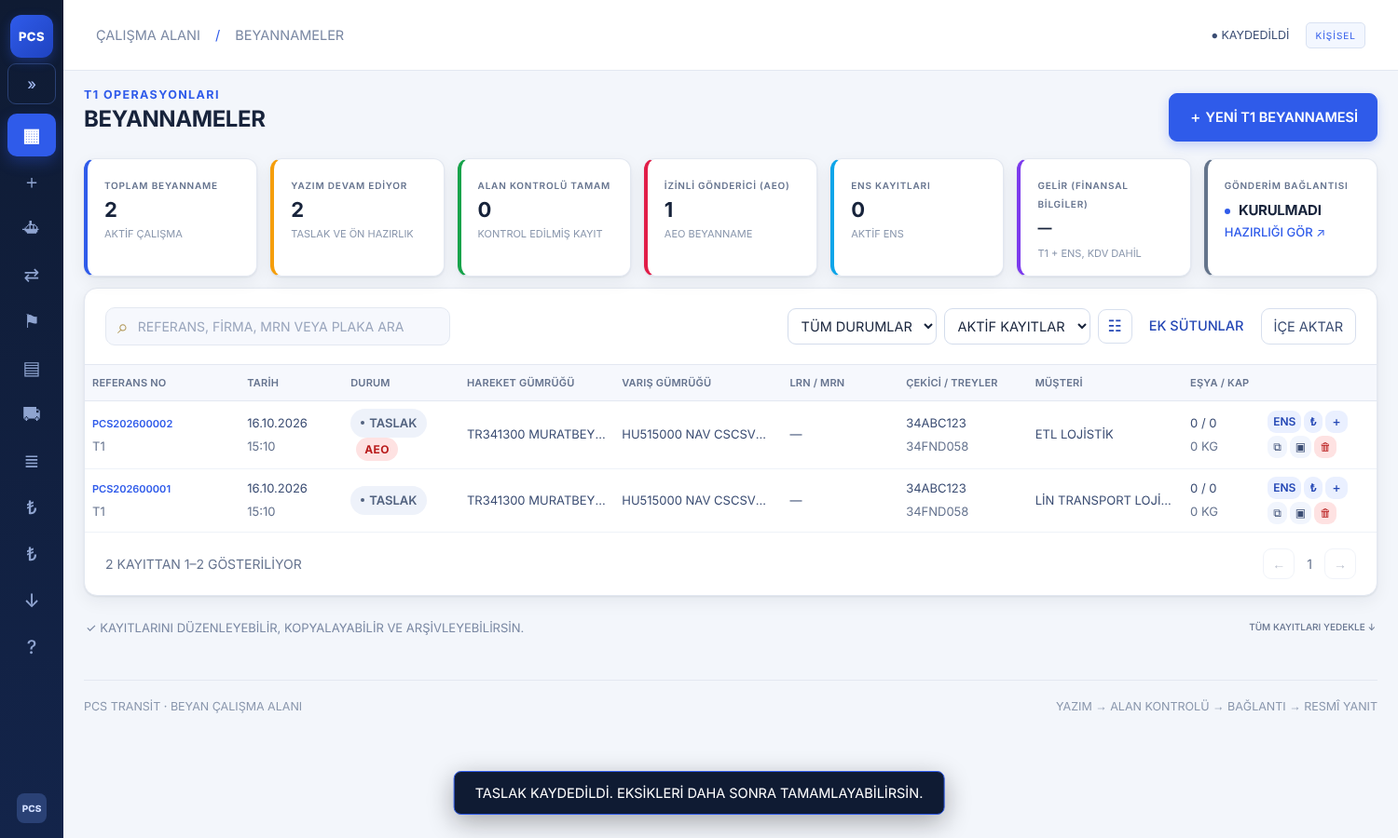
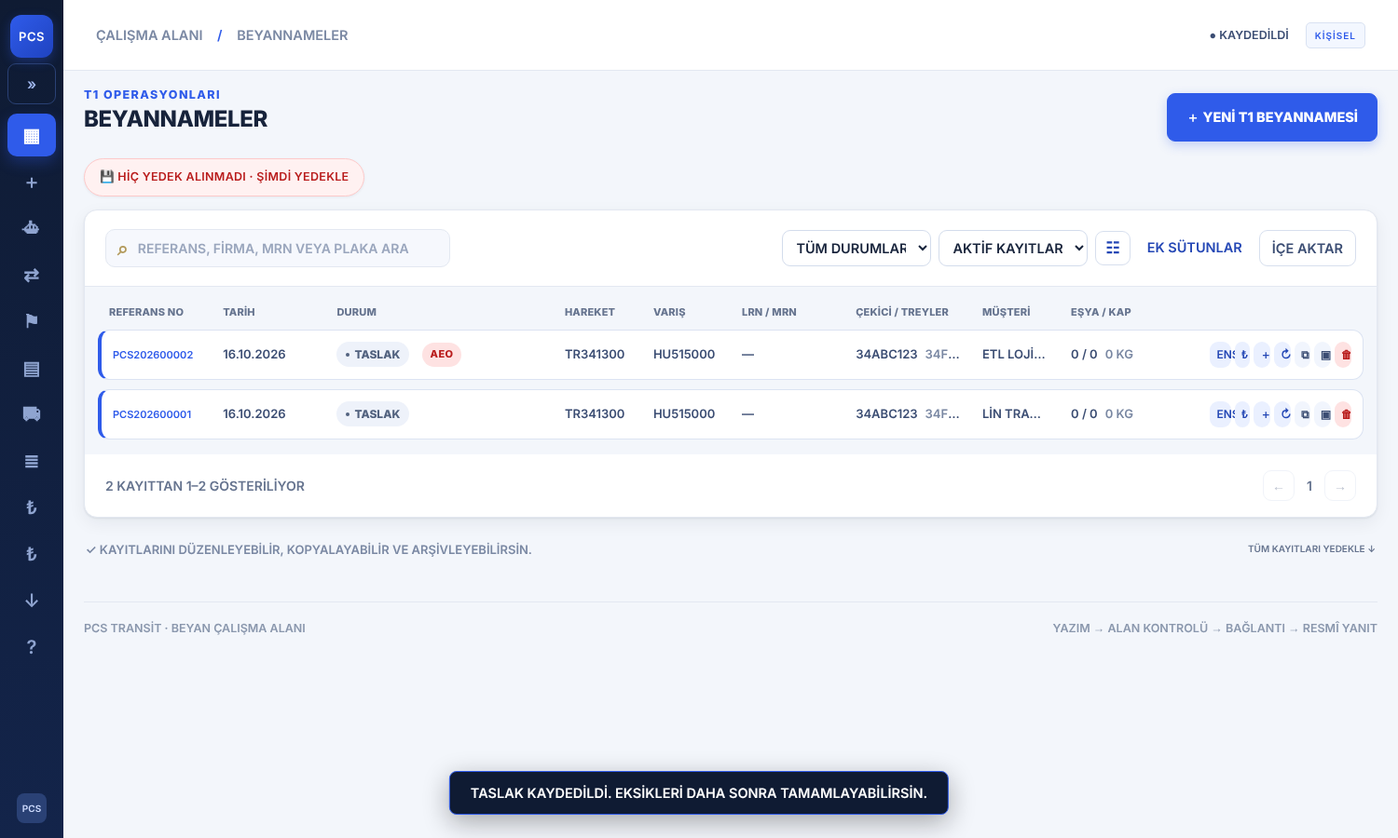
Liste: tek satır blok kartlar, bilgi şeridi kaldırıldı, tüm yazılar kalın; Bugün şeridi (transit süresi, hat bekleyen, yedek hatırlatma); ↻ Tekrarla; hat durum rozetleri/özeti/sonraki durum
Claude-Session: https://claude.ai/code/session_0131aE7XCffjHkh7CXKLT4XM

diff --git a/workspace.js b/workspace.js
@@ -100,14 +100,21 @@ function download(content,name,type){const url=URL.createObjectURL(new Blob([con
 $('#exportExcel').onclick=async()=>{const issues=allProblems(work.values,work.records).filter(x=>x.step===3);if(!work.records.length||issues.length){toast(!work.records.length?'Önce eşya satırı ekle.':'Excel için eşya satırlarındaki eksikleri tamamla.');setStep(3);if(issues[0]?.goodId)openGood(issues[0].goodId,issues[0].key);return}if(!saveWork(work.status,'PCS Excel çıktısı hazırlandı.'))return;try{const response=await fetch('template.xlsx');if(!response.ok)throw Error('Şablon yüklenemedi');const bytes=makeExcel(new Uint8Array(await response.arrayBuffer()),work.records);download(bytes,'PCS_'+work.ref+'.xlsx','application/vnd.openxmlformats-officedocument.spreadsheetml.sheet');toast(work.records.length+' eşya satırı için PCS Excel indirildi.')}catch(e){toast(e.message)}};
 $('#exportPreparation').onclick=()=>{flushDraft();download(JSON.stringify({format:'t1-preparation',version:1,createdAt:new Date().toISOString(),reference:work.ref||null,declaration:work.values,goods:work.records,checks:allProblems(work.values,work.records),submission:{connected:false,sent:false},note:'Hazırlık verisidir; sağlayıcının resmî gönderim şeması değildir.'},null,2),'T1_hazirlik_'+(work.ref||'taslak')+'.json','application/json');toast('Beyanname hazırlık dosyası indirildi.')};
 function showList(){if(work)flushDraft();work=null;showView('list');renderList();location.hash='list'}
-function renderList(){const active=db.declarations.filter(d=>!d.archived);$('#totalCount').textContent=active.length;$('#draftCount').textContent=active.filter(d=>d.status!=='Kontrol edildi').length;$('#checkedCount').textContent=active.filter(d=>d.status==='Kontrol edildi').length;{const e=ens.list().filter(r=>!r.archived);$('#aeoCount').textContent=active.filter(d=>d.aeo).length;$('#ensCount').textContent=e.length;const lines=[...active.flatMap(d=>(readGoods(d.id).fin?.lines||[])),...e.flatMap(r=>(r.fin?.lines||[]))].filter(l=>l.side==='gelir'),sm=Fin.sums(getFinance(),lines);$('#incomeSum').textContent=Fin.money(sm.gelir)}$('#resumeBanner').hidden=!db.draft;$('#resumeText').textContent=db.draft?(db.draft.ref||'Yeni T1')+' · '+steps[Math.min(5,db.draft.step||0)].name:'';let list=db.declarations.filter(d=>!!d.archived===($('#archiveFilter').value==='archived'));const q=$('#listSearch').value.toLocaleUpperCase('tr');list=list.filter(d=>[d.ref,d.mrn,d.lrn,d.vehicle,d.trailer,d.carrier,d.customer,...readGoods(d.id).records.map(g=>g.mrn)].join(' ').toLocaleUpperCase('tr').includes(q));if($('#statusFilter').value)list=list.filter(d=>d.status===$('#statusFilter').value);const localDay=d=>new Date(d.createdAt).toLocaleDateString('sv-SE',{timeZone:'Europe/Istanbul'});if($('#dateFrom').value)list=list.filter(d=>localDay(d)>=$('#dateFrom').value);if($('#dateTo').value)list=list.filter(d=>localDay(d)<=$('#dateTo').value);list.sort((a,b)=>String(b.createdAt||b.updatedAt).localeCompare(String(a.createdAt||a.updatedAt)));page=Math.max(1,Math.min(page,Math.ceil(list.length/20)||1));const shown=list.slice((page-1)*20,page*20);$('#declarationRows').innerHTML=shown.map(d=>{const t=totals(readGoods(d.id).records);const cell=(v,sub)=>'<td title="'+esc([v,sub].filter(Boolean).join(' · '))+'"><span class="cellMain">'+esc(v||'—')+'</span>'+(sub?'<small>'+esc(sub)+'</small>':'')+'</td>';
+const dueDays=d=>{if(d.archived||!d.transitEnd)return null;const t=Date.parse(String(d.transitEnd).slice(0,10)+'T23:59:59');return Number.isFinite(t)?Math.ceil((t-Date.now())/864e5):null};
+const dueBadge=d=>{const n=dueDays(d);if(n===null||n>2)return '';return ' <span class="dueBadge'+(n<0?' late':'')+'" title="Transit bitiş: '+esc(d.transitEnd)+'">'+(n<0?'SÜRE GEÇTİ':n===0?'BUGÜN BİTİYOR':n+' GÜN KALDI')+'</span>'};
+let dueOnly=false;
+function renderToday(){const el=$('#todayStrip');if(!el)return;const chips=[];const due=db.declarations.filter(d=>{const n=dueDays(d);return n!==null&&n<=2});if(due.length)chips.push('<button type="button" class="tChip warn'+(dueOnly?' on':'')+'" data-today="due">⏰ <b>'+due.length+'</b> BEYANNAMENİN TRANSİT SÜRESİ DOLUYOR / DOLDU'+(dueOnly?' · FİLTRE AÇIK':'')+'</button>');
+ let hw=0;try{hw=hat.exportData().filter(r=>['Hazırlandı','Gönderildi','İşlemde'].includes(r.status)).length}catch{}if(hw)chips.push('<button type="button" class="tChip" data-today="hat">⚑ <b>'+hw+'</b> HAT BİLDİRİMİ BEKLİYOR</button>');
+ if(db.declarations.length){let days=null;try{const t=Date.parse(localStorage.getItem('t1-last-backup')||'');if(Number.isFinite(t))days=Math.floor((Date.now()-t)/864e5)}catch{}if(days===null||days>=7)chips.push('<button type="button" class="tChip bad" data-today="backup">💾 '+(days===null?'HİÇ YEDEK ALINMADI':'SON YEDEK '+days+' GÜN ÖNCE')+' · ŞİMDİ YEDEKLE</button>')}
+ el.hidden=!chips.length;el.innerHTML=chips.join('')}
+function renderList(){renderToday();const active=db.declarations.filter(d=>!d.archived);$('#totalCount').textContent=active.length;$('#draftCount').textContent=active.filter(d=>d.status!=='Kontrol edildi').length;$('#checkedCount').textContent=active.filter(d=>d.status==='Kontrol edildi').length;{const e=ens.list().filter(r=>!r.archived);$('#aeoCount').textContent=active.filter(d=>d.aeo).length;$('#ensCount').textContent=e.length;const lines=[...active.flatMap(d=>(readGoods(d.id).fin?.lines||[])),...e.flatMap(r=>(r.fin?.lines||[]))].filter(l=>l.side==='gelir'),sm=Fin.sums(getFinance(),lines);$('#incomeSum').textContent=Fin.money(sm.gelir)}$('#resumeBanner').hidden=!db.draft;$('#resumeText').textContent=db.draft?(db.draft.ref||'Yeni T1')+' · '+steps[Math.min(5,db.draft.step||0)].name:'';let list=db.declarations.filter(d=>!!d.archived===($('#archiveFilter').value==='archived'));const q=$('#listSearch').value.toLocaleUpperCase('tr');list=list.filter(d=>[d.ref,d.mrn,d.lrn,d.vehicle,d.trailer,d.carrier,d.customer,...readGoods(d.id).records.map(g=>g.mrn)].join(' ').toLocaleUpperCase('tr').includes(q));if($('#statusFilter').value)list=list.filter(d=>d.status===$('#statusFilter').value);if(dueOnly)list=list.filter(d=>{const n=dueDays(d);return n!==null&&n<=2});const localDay=d=>new Date(d.createdAt).toLocaleDateString('sv-SE',{timeZone:'Europe/Istanbul'});if($('#dateFrom').value)list=list.filter(d=>localDay(d)>=$('#dateFrom').value);if($('#dateTo').value)list=list.filter(d=>localDay(d)<=$('#dateTo').value);list.sort((a,b)=>String(b.createdAt||b.updatedAt).localeCompare(String(a.createdAt||a.updatedAt)));page=Math.max(1,Math.min(page,Math.ceil(list.length/20)||1));const shown=list.slice((page-1)*20,page*20);$('#declarationRows').innerHTML=shown.map(d=>{const t=totals(readGoods(d.id).records);const oc=(v,e)=>'<td title="'+esc(v||e)+'"><span class="cellMain">'+esc(v?String(v).split(/\s+/)[0]:e)+'</span></td>';const cell=(v,sub)=>'<td title="'+esc([v,sub].filter(Boolean).join(' · '))+'"><span class="cellMain">'+esc(v||'—')+'</span>'+(sub?'<small>'+esc(sub)+'</small>':'')+'</td>';
  const ab=(act,label,title)=>'<button class="addmrn" data-action="'+act+'" data-id="'+esc(d.id)+'" title="'+title+'" aria-label="'+title+'">'+label+'</button>';
- return '<tr><td><button class="ref" data-open="'+esc(d.id)+'">'+esc(d.ref)+'</button><small>'+esc(d.docType||'T1')+'</small></td><td>'+(()=>{const t=time(d.createdAt||d.updatedAt).split(' ');return '<span class="cellMain">'+esc(t[0].replace(',',''))+'</span><small>'+esc(t[1]||'')+'</small>'})()+'</td><td class="stCell">'+statusLabel(d.status)+(d.aeo?' <span class="aeoBadge" title="İzinli gönderici (AEO)">AEO</span>':'')+'</td>'+cell(d.departureOffice||'Hareket eksik')+cell(d.arrivalOffice||'Varış eksik')+cell(d.lrn||d.mrn||'',d.lrn&&d.mrn?d.mrn:'')+cell(d.vehicle||'',d.trailer||'')+cell(d.customer||'')+'<td class="extra" title="'+esc(d.carrier||'')+'">'+esc(d.carrier||'—')+'</td><td class="extra">'+esc(d.guaranteeAmount?fmt(num(d.guaranteeAmount))+' '+d.guaranteeCurrency:'—')+'</td><td class="extra">'+esc(d.transitEnd||'—')+'</td><td>'+t.count+' / '+fmt(t.packages)+'<small>'+fmt(t.gross)+' kg</small></td><td><div class="rowactions">'+ab('ens','ENS','Bu T1\'den ENS hazırla (ENS fiyatı da yazılır)')+ab('invoice','₺','Bu beyanname için fatura hazırla')+ab('addmrn','＋','Bu beyannameye yeni MRN ekle')+'<button data-action="copy" data-id="'+esc(d.id)+'" title="Kopyala" aria-label="Beyannameyi kopyala">⧉</button><button data-action="archive" data-id="'+esc(d.id)+'" title="'+(d.archived?'Arşivden çıkar':'Arşivle')+'" aria-label="'+(d.archived?'Arşivden çıkar':'Arşivle')+'">'+(d.archived?'↶':'▣')+'</button><button class="danger" data-action="delete" data-id="'+esc(d.id)+'" title="Sil" aria-label="Beyannameyi sil">🗑</button></div></td></tr>'}).join('');$('#listEmpty').hidden=!!shown.length;$('#listEmpty h3').textContent=db.declarations.length?'Filtrene uygun kayıt bulunamadı.':'İlk T1 beyannamenle başla.';$('#pageSummary').textContent=list.length+' kayıttan '+(list.length?(page-1)*20+1:0)+'–'+Math.min(page*20,list.length)+' gösteriliyor';$('#pageNumber').textContent=page;$('#pagePrev').disabled=page<=1;$('#pageNext').disabled=page*20>=list.length}
-$('#declarationRows').onclick=e=>{const b=e.target.closest('[data-open]');if(b){startEditor(b.dataset.open,6);return}const action=e.target.closest('[data-action]');if(!action)return;if(action.dataset.action==='ens'){ens.createFromT1(db.declarations.find(x=>x.id===action.dataset.id));return}if(action.dataset.action==='invoice'){const dd=db.declarations.find(x=>x.id===action.dataset.id);accounting.openInvoiceForDeclaration({...dd,finLines:[...(readGoods(dd.id).fin?.lines||[]),...ens.list().filter(r=>!r.archived&&r.ncts===dd.ref).flatMap(r=>(r.fin?.lines||[]).map(l=>({...l,name:l.name+' (ENS '+r.ref+')'})))].filter(l=>l.side==='gelir')});return}if(action.dataset.action==='addmrn'){startEditor(action.dataset.id,3);openGood();return}const d=db.declarations.find(x=>x.id===action.dataset.id);if(action.dataset.action==='delete'){confirmAction('Beyannameyi sil',d.ref+' kalıcı olarak silinir (eşya satırları ve finans bilgisi dahil). Fatura ve ENS kayıtları silinmez. Emin misin?',()=>{db.declarations=db.declarations.filter(x=>x.id!==d.id);try{localStorage.removeItem(goodsKey(d.id))}catch{}if(db.draft&&db.draft.id===d.id)db.draft=null;writeDB();renderList();toast(d.ref+' silindi.')});return}if(action.dataset.action==='archive'){d.archived=!d.archived;d.updatedAt=new Date().toISOString();writeDB();renderList();toast(d.archived?'Arşivlendi. Arşiv filtresinden geri alabilirsin.':'Kayıt arşivden çıkarıldı.')}else confirmAction('Beyannameyi kopyala','Yeni bir taslak oluşturulur. Transit LRN/MRN temizlenir, eşya satırları yeniden kontrol bekler.',()=>{const id=crypto.randomUUID(),now=new Date().toISOString(),clone={...d,id,ref:nextRef(),lrn:'',mrn:'',status:'Taslak',archived:false,createdAt:now,updatedAt:now,activity:[{at:now,message:'Önceki beyannameden taslak kopyalandı.'}]};try{localStorage.setItem(goodsKey(id),JSON.stringify({name:clone.ref,records:readGoods(d.id).records.map(g=>({...g,id:crypto.randomUUID(),reviewed:false}))}));db.declarations.push(clone);writeDB();renderList();toast('Yeni taslak kopyalandı.')}catch{toast('Kopya kaydedilemedi; yedek indir.')}})};
+ return '<tr><td><button class="ref" data-open="'+esc(d.id)+'">'+esc(d.ref)+'</button><small>'+esc(d.docType||'T1')+'</small></td><td>'+(()=>{const t=time(d.createdAt||d.updatedAt).split(' ');return '<span class="cellMain">'+esc(t[0].replace(',',''))+'</span><small>'+esc(t[1]||'')+'</small>'})()+'</td><td class="stCell">'+statusLabel(d.status)+(d.aeo?' <span class="aeoBadge" title="İzinli gönderici (AEO)">AEO</span>':'')+dueBadge(d)+'</td>'+oc(d.departureOffice,'Hareket eksik')+oc(d.arrivalOffice,'Varış eksik')+cell(d.lrn||d.mrn||'',d.lrn&&d.mrn?d.mrn:'')+cell(d.vehicle||'',d.trailer||'')+cell(d.customer||'')+'<td class="extra" title="'+esc(d.carrier||'')+'">'+esc(d.carrier||'—')+'</td><td class="extra">'+esc(d.guaranteeAmount?fmt(num(d.guaranteeAmount))+' '+d.guaranteeCurrency:'—')+'</td><td class="extra">'+esc(d.transitEnd||'—')+'</td><td>'+t.count+' / '+fmt(t.packages)+'<small>'+fmt(t.gross)+' kg</small></td><td><div class="rowactions">'+ab('ens','ENS','Bu T1\'den ENS hazırla (ENS fiyatı da yazılır)')+ab('invoice','₺','Bu beyanname için fatura hazırla')+ab('addmrn','＋','Bu beyannameye yeni MRN ekle')+ab('repeat','↻','Aynı müşteri, plaka ve güzergâhla yeni iş aç (eşyasız)')+'<button data-action="copy" data-id="'+esc(d.id)+'" title="Kopyala" aria-label="Beyannameyi kopyala">⧉</button><button data-action="archive" data-id="'+esc(d.id)+'" title="'+(d.archived?'Arşivden çıkar':'Arşivle')+'" aria-label="'+(d.archived?'Arşivden çıkar':'Arşivle')+'">'+(d.archived?'↶':'▣')+'</button><button class="danger" data-action="delete" data-id="'+esc(d.id)+'" title="Sil" aria-label="Beyannameyi sil">🗑</button></div></td></tr>'}).join('');$('#listEmpty').hidden=!!shown.length;$('#listEmpty h3').textContent=db.declarations.length?'Filtrene uygun kayıt bulunamadı.':'İlk T1 beyannamenle başla.';$('#pageSummary').textContent=list.length+' kayıttan '+(list.length?(page-1)*20+1:0)+'–'+Math.min(page*20,list.length)+' gösteriliyor';$('#pageNumber').textContent=page;$('#pagePrev').disabled=page<=1;$('#pageNext').disabled=page*20>=list.length}
+$('#declarationRows').onclick=e=>{const b=e.target.closest('[data-open]');if(b){startEditor(b.dataset.open,6);return}const action=e.target.closest('[data-action]');if(!action)return;if(action.dataset.action==='ens'){ens.createFromT1(db.declarations.find(x=>x.id===action.dataset.id));return}if(action.dataset.action==='invoice'){const dd=db.declarations.find(x=>x.id===action.dataset.id);accounting.openInvoiceForDeclaration({...dd,finLines:[...(readGoods(dd.id).fin?.lines||[]),...ens.list().filter(r=>!r.archived&&r.ncts===dd.ref).flatMap(r=>(r.fin?.lines||[]).map(l=>({...l,name:l.name+' (ENS '+r.ref+')'})))].filter(l=>l.side==='gelir')});return}if(action.dataset.action==='addmrn'){startEditor(action.dataset.id,3);openGood();return}const d=db.declarations.find(x=>x.id===action.dataset.id);if(action.dataset.action==='repeat'){const src=db.declarations.find(x=>x.id===action.dataset.id);if(!src)return;const id=crypto.randomUUID(),now=new Date().toISOString(),clone={...src,id,ref:nextRef(),lrn:'',mrn:'',exportMrns:'',status:'Taslak',archived:false,createdAt:now,updatedAt:now,activity:[{at:now,message:src.ref+' kaydından tekrarlandı (eşyasız).'}]};try{localStorage.setItem(goodsKey(id),JSON.stringify({name:clone.ref,records:[],draft:{},fin:null}));db.declarations.push(clone);writeDB();startEditor(id,3);toast(clone.ref+' açıldı: müşteri, plaka ve güzergâh '+src.ref+' ile aynı. Eşyayı ekle.')}catch{toast('Kayıt açılamadı; yedek indir.')}return}if(action.dataset.action==='delete'){confirmAction('Beyannameyi sil',d.ref+' kalıcı olarak silinir (eşya satırları ve finans bilgisi dahil). Fatura ve ENS kayıtları silinmez. Emin misin?',()=>{db.declarations=db.declarations.filter(x=>x.id!==d.id);try{localStorage.removeItem(goodsKey(d.id))}catch{}if(db.draft&&db.draft.id===d.id)db.draft=null;writeDB();renderList();toast(d.ref+' silindi.')});return}if(action.dataset.action==='archive'){d.archived=!d.archived;d.updatedAt=new Date().toISOString();writeDB();renderList();toast(d.archived?'Arşivlendi. Arşiv filtresinden geri alabilirsin.':'Kayıt arşivden çıkarıldı.')}else confirmAction('Beyannameyi kopyala','Yeni bir taslak oluşturulur. Transit LRN/MRN temizlenir, eşya satırları yeniden kontrol bekler.',()=>{const id=crypto.randomUUID(),now=new Date().toISOString(),clone={...d,id,ref:nextRef(),lrn:'',mrn:'',status:'Taslak',archived:false,createdAt:now,updatedAt:now,activity:[{at:now,message:'Önceki beyannameden taslak kopyalandı.'}]};try{localStorage.setItem(goodsKey(id),JSON.stringify({name:clone.ref,records:readGoods(d.id).records.map(g=>({...g,id:crypto.randomUUID(),reviewed:false}))}));db.declarations.push(clone);writeDB();renderList();toast('Yeni taslak kopyalandı.')}catch{toast('Kopya kaydedilemedi; yedek indir.')}})};
 $('#resumeDraft').onclick=()=>startEditor(db.draft.id,db.draft.step||0,true);for(const id of ['navNew','newDeclaration','emptyNew','connectionNew'])$('#'+id).onclick=newEditor;$('#navList').onclick=showList;$('#backToList').onclick=showList;
 function showConnection(){if(work)flushDraft();work=null;showView('connection');location.hash='connection'}for(const id of ['navConnection','connectionInfo','reviewConnection'])$('#'+id).onclick=showConnection;
 for(const id of ['listSearch','statusFilter','archiveFilter','dateFrom','dateTo'])$('#'+id).addEventListener(id==='listSearch'?'input':'change',()=>{page=1;renderList()});$('#detailColumns').onclick=()=>{$('#declarationsTable').classList.toggle('showExtra');$('#detailColumns').textContent=$('#declarationsTable').classList.contains('showExtra')?'Sade görünüm':'Ek sütunlar'};$('#filterButton').onclick=()=>$('#dateFilters').hidden=!$('#dateFilters').hidden;$('#clearFilters').onclick=()=>{for(const id of ['dateFrom','dateTo','listSearch','statusFilter'])$('#'+id).value='';page=1;renderList()};$('#pagePrev').onclick=()=>{page--;renderList()};$('#pageNext').onclick=()=>{page++;renderList()};
-async function backup(){try{if(work)flushDraft();const goods=Object.fromEntries(db.declarations.map(d=>[d.id,readGoods(d.id)]));download(JSON.stringify({format:'t1-ncts',version:4,db,goods,companies:await references.getCompanies(),plateCountries:operations.getPlateCountries(),accounting:accounting.exportData(),ens:ens.exportData(),plates:plates.exportData(),hat:hat.exportData(),finance:getFinance()},null,2),'T1_Tum_Kayitlar_'+new Date().toISOString().slice(0,10)+'.json','application/json');toast('Beyanname, firma rehberi ve yarım kalan çalışman yedeklendi.')}catch(err){toast('Yedek alınamadı: '+err.message)}}
+async function backup(){try{try{localStorage.setItem('t1-last-backup',new Date().toISOString())}catch{}if(work)flushDraft();const goods=Object.fromEntries(db.declarations.map(d=>[d.id,readGoods(d.id)]));download(JSON.stringify({format:'t1-ncts',version:4,db,goods,companies:await references.getCompanies(),plateCountries:operations.getPlateCountries(),accounting:accounting.exportData(),ens:ens.exportData(),plates:plates.exportData(),hat:hat.exportData(),finance:getFinance()},null,2),'T1_Tum_Kayitlar_'+new Date().toISOString().slice(0,10)+'.json','application/json');toast('Beyanname, firma rehberi ve yarım kalan çalışman yedeklendi.')}catch(err){toast('Yedek alınamadı: '+err.message)}}
 for(const id of ['navBackup','listBackup'])$('#'+id).onclick=()=>$('#backupDialog').showModal();$('#downloadBackup').onclick=backup;$('#navHelp').onclick=()=>$('#helpDialog').showModal();document.querySelectorAll('[data-close]').forEach(b=>b.onclick=()=>b.closest('dialog').id==='goodDialog'?closeGood():b.closest('dialog').close());
 async function parseFile(file){if(file.size>30*1024*1024)throw Error('Dosya 30 MB altında olmalı.');if(file.name.toLowerCase().endsWith('.xlsx'))return {records:readExcel(new Uint8Array(await file.arrayBuffer()))};return JSON.parse(await file.text())}
 $('#goodsImport').onchange=async e=>{const f=e.target.files[0];if(!f)return;try{const v=await parseFile(f),records=v.records||v.goods;if(!Array.isArray(records))throw Error('Dosyada eşya satırı bulunamadı.');let added=0;for(const value of records){const g=normalizeGood(value);if(!g.mrn||work.records.some(x=>x.mrn===g.mrn))continue;g.id=crypto.randomUUID();g.reviewed=false;work.records.push(g);added++}work.status='Taslak';flushDraft();renderGoods();renderRail();toast(added+' tekil eşya satırı eklendi. Belge karşılaştırması yap.')}catch(err){toast('İçe alınamadı: '+err.message)}finally{e.target.value=''}};
@@ -154,3 +161,5 @@ $('#printT1').onclick=()=>{work.values=readForm();printHtml((work.ref||'T1')+' T
 {const side=document.querySelector('.sidebar'),setTitles=()=>side.querySelectorAll('.nav').forEach(n=>{if(!n.title)n.title=n.textContent.trim()}),wide=()=>{try{return localStorage.getItem('t1-nav-wide')==='1'}catch{return false}};
 setTitles();new MutationObserver(setTitles).observe(side,{childList:true,subtree:true});document.body.classList.toggle('navWide',wide());
 const t=document.createElement('button');t.type='button';t.className='navToggle';t.title='Menüyü genişlet / daralt';t.textContent=document.body.classList.contains('navWide')?'«':'»';t.onclick=()=>{const w=document.body.classList.toggle('navWide');t.textContent=w?'«':'»';try{localStorage.setItem('t1-nav-wide',w?'1':'0')}catch{}};side.querySelector('.brand').after(t)}
+
+$('#todayStrip').onclick=e=>{const b=e.target.closest('[data-today]');if(!b)return;const k=b.dataset.today;if(k==='due'){dueOnly=!dueOnly;page=1;renderList()}else if(k==='hat')$('#navHat').click();else if(k==='backup')$('#backupDialog').showModal()};

diff --git a/index.html b/index.html
@@ -1,7 +1,7 @@
-<!doctype html><html lang="tr"><head><meta charset="utf-8"><meta name="viewport" content="width=device-width,initial-scale=1"><title>PCS TRANSİT · Beyan çalışma alanı</title><meta name="description" content="T1 yazımı için sade, adım adım beyan çalışma alanı."><link rel="stylesheet" href="workspace.css"><link rel="stylesheet" href="polish.css?v=2"><script src="vendor/fflate.js"></script><script type="module" src="workspace.js"></script></head><body>
+<!doctype html><html lang="tr"><head><meta charset="utf-8"><meta name="viewport" content="width=device-width,initial-scale=1"><title>PCS TRANSİT · Beyan çalışma alanı</title><meta name="description" content="T1 yazımı için sade, adım adım beyan çalışma alanı."><link rel="stylesheet" href="workspace.css"><link rel="stylesheet" href="polish.css?v=6"><script src="vendor/fflate.js"></script><script type="module" src="workspace.js"></script></head><body>
 <aside class="sidebar"><a class="brand" href="#list"><span class="brandmark">PCS</span><span>TRANSİT<small>BEYAN ÇALIŞMA ALANI</small></span></a><div class="navlabel">ÇALIŞMA ALANI</div><button class="nav active" id="navList"><span>▦</span>Beyannameler</button><button class="nav" id="navNew"><span>＋</span>Yeni T1 yaz</button><button class="nav" id="navConnection"><span>⇄</span>Gönderim bağlantısı<span class="navdot"></span></button><div class="navlabel">ARAÇLAR</div><button class="nav" id="navBackup"><span>↓</span>Yedekleme</button><button class="nav" id="navHelp"><span>?</span>Kullanım rehberi</button><div class="sidebarbottom"><div class="localdot">Kişisel çalışma alanı</div><p>Bu tarayıcıda saklanır.<br>Yedek alarak kayıtlarını koru.</p><div class="user"><span class="avatar">PCS</span><div>PCS TRANSİT<small>Yazım & kontrol</small></div></div></div></aside>
 <div class="shell"><header class="topbar"><span class="breadcrumb" id="breadcrumb">Çalışma alanı <i>/</i> Beyannameler</span><div><span class="saveIndicator" id="saveIndicator">● Otomatik kayıt açık</span><span class="private">KİŞİSEL</span></div></header><main>
-<section id="listView" class="view"><div class="pagehead"><div><div class="eyebrow">T1 OPERASYONLARI</div><h1>Beyannameler</h1><p>Yüklerini tek yerde hazırla, kontrol et ve takip et.</p></div><button class="primary" id="newDeclaration">＋ Yeni T1 Beyannamesi</button></div><div id="resumeBanner" class="resume compact" hidden><div><strong>Yarım kalan bir çalışman var.</strong> <span id="resumeText"></span></div><button id="resumeDraft">Yazıma devam et →</button></div><div class="kpis"><div><span>TOPLAM BEYANNAME</span><strong id="totalCount">0</strong><small>Aktif çalışma</small></div><div><span>YAZIM DEVAM EDİYOR</span><strong id="draftCount">0</strong><small>Taslak ve ön hazırlık</small></div><div><span>ALAN KONTROLÜ TAMAM</span><strong id="checkedCount">0</strong><small>Kontrol edilmiş kayıt</small></div><div><span>İZİNLİ GÖNDERİCİ (AEO)</span><strong id="aeoCount">0</strong><small>AEO beyanname</small></div><div><span>ENS KAYITLARI</span><strong id="ensCount">0</strong><small>Aktif ENS</small></div><div class="incomeKpi"><span>GELİR (FİNANSAL BİLGİLER)</span><strong id="incomeSum">—</strong><small>T1 + ENS, KDV dahil</small></div><div class="connectionKpi"><span>GÖNDERİM BAĞLANTISI</span><strong><b class="amberdot"></b> Kurulmadı</strong><button id="connectionInfo">Hazırlığı gör ↗</button></div></div><section class="card listcard"><div class="listcontrols"><div class="search"><span>⌕</span><input id="listSearch" aria-label="Beyanname ara" placeholder="Referans, firma, MRN veya plaka ara"></div><div class="filtercontrols"><select id="statusFilter" aria-label="Durum filtresi"><option value="">Tüm durumlar</option><option>Taslak</option><option>Ön hazırlık</option><option>Kontrol edildi</option></select><select id="archiveFilter" aria-label="Arşiv filtresi"><option value="active">Aktif kayıtlar</option><option value="archived">Arşiv</option></select><button id="filterButton" class="iconbutton" title="Tarih filtresi" aria-label="Tarih filtresi">☷</button><button id="detailColumns" class="quiet">Ek sütunlar</button><label class="upload">İçe aktar<input type="file" id="importFile" accept=".json,.xlsx" hidden></label></div></div><div class="datefilters" id="dateFilters" hidden><label>Başlangıç<input type="date" id="dateFrom"></label><label>Bitiş<input type="date" id="dateTo"></label><button id="clearFilters" class="quiet">Temizle</button></div><div class="tablewrap"><table id="declarationsTable"><colgroup><col style="width:12%"><col style="width:8%"><col style="width:9%"><col style="width:12%"><col style="width:13%"><col style="width:9%"><col style="width:10%"><col style="width:12%"><col class="extra" style="width:12%"><col class="extra" style="width:8%"><col class="extra" style="width:8%"><col style="width:6%"><col style="width:9%"></colgroup><thead><tr><th>REFERANS NO</th><th>TARİH</th><th>DURUM</th><th>HAREKET GÜMRÜĞÜ</th><th>VARIŞ GÜMRÜĞÜ</th><th>LRN / MRN</th><th>ÇEKİCİ / TREYLER</th><th>MÜŞTERİ</th><th class="extra">TAŞIYICI</th><th class="extra">TEMİNAT</th><th class="extra">TRANSİT BİTİŞ</th><th>EŞYA / KAP</th><th></th></tr></thead><tbody id="declarationRows"></tbody></table><div id="listEmpty" class="empty"><div class="emptyicon">▤</div><h3>İlk T1 beyannamenle başla.</h3><p>Önce rota ve gümrükleri seç. Sonra firmaları,<br>aracı ve eşya bilgilerini ekle.</p><button class="secondary" id="emptyNew">＋ Yeni beyanname oluştur</button></div></div><div class="pagination"><span id="pageSummary">0 kayıt</span><div><button id="pagePrev" aria-label="Önceki sayfa">←</button><span id="pageNumber">1</span><button id="pageNext" aria-label="Sonraki sayfa">→</button></div></div></section><div class="bottomnote"><span>✓ Kayıtlarını düzenleyebilir, kopyalayabilir ve arşivleyebilirsin.</span><button id="listBackup">Tüm kayıtları yedekle ↓</button></div></section>
+<section id="listView" class="view"><div class="pagehead"><div><div class="eyebrow">T1 OPERASYONLARI</div><h1>Beyannameler</h1><p>Yüklerini tek yerde hazırla, kontrol et ve takip et.</p></div><button class="primary" id="newDeclaration">＋ Yeni T1 Beyannamesi</button></div><div id="resumeBanner" class="resume compact" hidden><div><strong>Yarım kalan bir çalışman var.</strong> <span id="resumeText"></span></div><button id="resumeDraft">Yazıma devam et →</button></div><div id="todayStrip" class="todayStrip" hidden></div><div class="kpis"><div><span>TOPLAM BEYANNAME</span><strong id="totalCount">0</strong><small>Aktif çalışma</small></div><div><span>YAZIM DEVAM EDİYOR</span><strong id="draftCount">0</strong><small>Taslak ve ön hazırlık</small></div><div><span>ALAN KONTROLÜ TAMAM</span><strong id="checkedCount">0</strong><small>Kontrol edilmiş kayıt</small></div><div><span>İZİNLİ GÖNDERİCİ (AEO)</span><strong id="aeoCount">0</strong><small>AEO beyanname</small></div><div><span>ENS KAYITLARI</span><strong id="ensCount">0</strong><small>Aktif ENS</small></div><div class="incomeKpi"><span>GELİR (FİNANSAL BİLGİLER)</span><strong id="incomeSum">—</strong><small>T1 + ENS, KDV dahil</small></div><div class="connectionKpi"><span>GÖNDERİM BAĞLANTISI</span><strong><b class="amberdot"></b> Kurulmadı</strong><button id="connectionInfo">Hazırlığı gör ↗</button></div></div><section class="card listcard"><div class="listcontrols"><div class="search"><span>⌕</span><input id="listSearch" aria-label="Beyanname ara" placeholder="Referans, firma, MRN veya plaka ara"></div><div class="filtercontrols"><select id="statusFilter" aria-label="Durum filtresi"><option value="">Tüm durumlar</option><option>Taslak</option><option>Ön hazırlık</option><option>Kontrol edildi</option></select><select id="archiveFilter" aria-label="Arşiv filtresi"><option value="active">Aktif kayıtlar</option><option value="archived">Arşiv</option></select><button id="filterButton" class="iconbutton" title="Tarih filtresi" aria-label="Tarih filtresi">☷</button><button id="detailColumns" class="quiet">Ek sütunlar</button><label class="upload">İçe aktar<input type="file" id="importFile" accept=".json,.xlsx" hidden></label></div></div><div class="datefilters" id="dateFilters" hidden><label>Başlangıç<input type="date" id="dateFrom"></label><label>Bitiş<input type="date" id="dateTo"></label><button id="clearFilters" class="quiet">Temizle</button></div><div class="tablewrap"><table id="declarationsTable"><colgroup><col style="width:9%"><col style="width:9%"><col style="width:18%"><col style="width:7%"><col style="width:7%"><col style="width:9%"><col style="width:10%"><col style="width:7%"><col class="extra" style="width:12%"><col class="extra" style="width:8%"><col class="extra" style="width:8%"><col style="width:11%"><col style="width:13%"></colgroup><thead><tr><th>REFERANS NO</th><th>TARİH</th><th>DURUM</th><th>HAREKET</th><th>VARIŞ</th><th>LRN / MRN</th><th>ÇEKİCİ / TREYLER</th><th>MÜŞTERİ</th><th class="extra">TAŞIYICI</th><th class="extra">TEMİNAT</th><th class="extra">TRANSİT BİTİŞ</th><th>EŞYA / KAP</th><th></th></tr></thead><tbody id="declarationRows"></tbody></table><div id="listEmpty" class="empty"><div class="emptyicon">▤</div><h3>İlk T1 beyannamenle başla.</h3><p>Önce rota ve gümrükleri seç. Sonra firmaları,<br>aracı ve eşya bilgilerini ekle.</p><button class="secondary" id="emptyNew">＋ Yeni beyanname oluştur</button></div></div><div class="pagination"><span id="pageSummary">0 kayıt</span><div><button id="pagePrev" aria-label="Önceki sayfa">←</button><span id="pageNumber">1</span><button id="pageNext" aria-label="Sonraki sayfa">→</button></div></div></section><div class="bottomnote"><span>✓ Kayıtlarını düzenleyebilir, kopyalayabilir ve arşivleyebilirsin.</span><button id="listBackup">Tüm kayıtları yedekle ↓</button></div></section>
 <section id="editorView" class="view" hidden><div class="pagehead editorhead"><div><button id="backToList" class="back">← Beyannamelere dön</button><h1 id="editorTitle">Yeni T1 Beyannamesi</h1><p id="editorSubtitle">Sade adımlar. Eksiksiz bir çalışma.</p></div><div class="headtools"><span id="editorStatus" class="tag">Taslak</span><button id="quickAddGood" class="primary" type="button">＋ MRN / eşya ekle</button><button id="previewPrint" class="quiet">Yazdır</button><button id="saveDraft" class="secondary">Taslağı kaydet</button></div></div><div class="stepper" id="stepper"></div><div class="editorlayout"><div class="editorcontent"><form id="declarationForm" novalidate><div class="card stepcard"><div class="sectionhead"><div><div class="eyebrow" id="stepEyebrow"></div><h2 id="stepTitle"></h2><p id="stepDescription"></p></div><span id="stepNumber" class="stepnumber"></span></div><div id="metadataFields"></div><section id="goodsStep" class="steppanel" hidden><div class="goodstoolbar"><div><strong>Beyanname ve eşya satırları</strong><p>Her ihracat beyannamesi için bir satır.</p></div><div><label class="upload">Excel içe aktar<input type="file" id="goodsImport" accept=".xlsx,.json" hidden></label><button type="button" class="primary" id="addGood">＋ Beyanname bilgisi ekle</button></div></div><div id="goodsCards"></div><div class="empty compact" id="goodsEmpty"><span class="emptyicon">▧</span><h3>Bu beyannamede henüz eşya yok.</h3><p>GTİP, ticari tanım, firma ve fatura bilgilerini ekle.</p></div><div class="goodsTotals" id="goodsTotals"></div><div class="info"><b>Belgeye göre yaz.</b> İlk kalemin 8 haneli GTİP’ini ve toplam ağırlık/kap bilgilerini kullan. Kısmi yükte kullanılan gerçek miktarları gir.</div></section><section id="financeStep" class="steppanel" hidden></section><section id="reviewStep" class="steppanel" hidden><div class="reviewHero" id="reviewHero"></div><div id="reviewSections"></div><div class="exportstrip"><div><strong>Çıktılar</strong><p>PCS eşya şablonu veya tüm beyanname bilgileri.</p></div><button type="button" id="printT1">T1 taslak yazdır</button><button type="button" id="printCmr">CMR yazdır</button><button type="button" id="exportExcel" class="primary">PCS Excel indir ↓</button><button type="button" id="exportPreparation">Hazırlık dosyası ↓</button></div><section class="submissionPanel"><div><span class="eyebrow">RESMÎ GÖNDERİM</span><h3>Bağlantı hazırlığı</h3><p>Sağlayıcı ve yetkilendirme belirlenince gönderim ile resmî yanıt takibi bu alana bağlanacak.</p></div><div class="submissionState"><span class="tag warning">Bağlantı kurulmadı</span><button type="button" id="reviewConnection">Gerekli adımları gör →</button></div></section><details class="history"><summary>İşlem geçmişi</summary><div id="activityList"></div></details></section><div id="stepError" class="errorbox" role="status" hidden></div><div class="wizardfooter"><button type="button" id="previousStep">← Önceki adım</button><span id="stepFooter"></span><button type="button" id="nextStep" class="primary">Devam et →</button><button type="button" id="markReviewed" class="primary" hidden>Alan kontrolünü kaydet ✓</button></div></div></form></div><aside class="summaryrail"><section class="card"><div class="railhead"><span class="eyebrow">BEYAN ÖZETİ</span><span id="railRef">Yeni kayıt</span></div><div class="routevisual"><div><span class="routedot"></span><small>HAREKET</small><strong id="railDeparture">Henüz seçilmedi</strong></div><div><span class="routedot end"></span><small>VARIŞ</small><strong id="railArrival">Henüz seçilmedi</strong></div></div><div class="railtotals"><div><strong id="railGoods">0</strong><span>eşya</span></div><div><strong id="railGross">0</strong><span>kg brüt</span></div><div><strong id="railPackages">0</strong><span>kap</span></div></div><div id="railChecklist" class="railchecks"></div></section><section class="railhelp"><span>BU ADIMDA</span><h3 id="railTipTitle"></h3><p id="railTip"></p></section><div class="connectionMini"><b class="amberdot"></b><div>Gönderim bağlantısı kurulmadı<small>Alan kontrolü, resmî tescil değildir.</small></div></div></aside></div></section>
 <section id="connectionView" class="view" hidden><div class="pagehead"><div><div class="eyebrow">ENTEGRASYON HAZIRLIĞI</div><h1>Resmî gönderim bağlantısı</h1><p>Yazım alanından yetkili sisteme geçiş için hazırlık.</p></div><span class="tag warning">Henüz bağlı değil</span></div><div class="connectionlayout"><section class="card connectioncard"><h2>Önce ekran. Sonra bağlantı.</h2><p>Bu aşamada beyannameyi hazırlayıp alanlarını kontrol edebilirsin. Canlı gönderim, sağlayıcının yetkilendirilmiş servis bağlantısı kurulup test edildikten sonra açılacak.</p><div class="connectionsteps"><div><b>1</b><section><h3>Sağlayıcıyı belirle</h3><p>Modaltrans / PCS veya NCTS.com.tr gibi çalışacağın sistem seçilir.</p><span class="tag warning">Bekliyor</span></section></div><div><b>2</b><section><h3>Yetkili servis ve test erişimi</h3><p>Servis dokümanı, hesap yetkileri ve test ortamı sağlayıcıyla doğrulanır.</p><span class="tag">Bekliyor</span></section></div><div><b>3</b><section><h3>Veri eşleştirme ve yanıt takibi</h3><p>Beyanname alanları sağlayıcının formatına eşlenir. Kabul/ret, LRN/MRN ve hata mesajları gerçek servis yanıtından alınır.</p><span class="tag">Bekliyor</span></section></div><div><b>4</b><section><h3>Testten canlı gönderime</h3><p>Test gönderimi, tekrar gönderim kontrolü ve işlem kaydı doğrulanınca canlı kullanım açılır.</p><span class="tag">Bekliyor</span></section></div></div></section><section class="card connectionaside"><span class="eyebrow">ŞİMDİ YAPABİLİRSİN</span><h3>T1 yazımı ve kontrol</h3><ul><li>Beyanname ve eşya bilgilerini hazırla</li><li>Eksikleri alan bazında gör</li><li>PCS Excel çıktısını indir</li><li>Tüm kayıtlarının yedeğini al</li></ul><button id="connectionNew" class="primary">Yeni T1 yaz →</button><a href="https://app.modaltrans.com/manifestos" target="_blank" rel="noopener">Modaltrans’ı aç ↗</a><a href="https://www.ncts.com.tr/" target="_blank" rel="noopener">NCTS.com.tr’yi aç ↗</a></section></div></section>
 <footer><span>PCS TRANSİT · Beyan çalışma alanı</span><span>Yazım → Alan kontrolü → Bağlantı → Resmî yanıt</span></footer></main></div>

diff --git a/hat.js b/hat.js
@@ -11,15 +11,19 @@ export function installHat({toast,confirmAction,show}){
  const copy=async r=>{const text=[r.mrn,r.location,r.trailer,r.office].join('\t');try{await navigator.clipboard.writeText(text);toast('Panoya kopyalandı: MRN, lokasyon kodu, plaka, gümrük. Modaltrans’ta yapıştırabilirsin.')}catch{toast(text)}};
  const page=listPage({id:'hat',nav:'navHat',navIcon:'⚑',navLabel:'Hat bildirimleri',navAfter:document.querySelector('#navEns'),eyebrow:'İZİNLİ GÖNDERİCİ İŞLEMLERİ',title:'Hat bildirimleri',intro:'TCGB hazır bildirimi ve transit varış bildirimi kayıtların. Kalem satırındaki “Hat bildirimi” düğmesi buraya hazır kayıt açar.',newLabel:'＋ Yeni bildirim',importLabel:'Yedekten yükle (JSON)',accept:'.json',noun:'hat bildirimi',
   anchor:document.querySelector('#navReferences'),toast,confirmAction,
-  columns:[{label:'MRN',html:r=>'<strong>'+r.mrn.replace(/[<>&"']/g,'')+'</strong>'+(r.declarationRef?'<small>'+r.declarationRef.replace(/[<>&"']/g,'')+'</small>':'')},{label:'TÜR',get:r=>r.kind},{label:'DURUM',get:r=>r.status},{label:'ÖNCELİK',get:r=>r.priority},{label:'LOKASYON KODU',get:r=>r.location},{label:'TREYLER PLAKA',get:r=>r.trailer},{label:'HAREKET GÜMRÜĞÜ',get:r=>r.office},{label:'HAZIR BİLDİRİM TARİHİ',get:r=>r.readyAt},{label:'STATÜ UYGUN TARİHİ',get:r=>r.approvedAt},{label:'IGHB NO',get:r=>r.ighb}],
+  columns:[{label:'MRN',html:r=>'<strong>'+r.mrn.replace(/[<>&"']/g,'')+'</strong>'+(r.declarationRef?'<small>'+r.declarationRef.replace(/[<>&"']/g,'')+'</small>':'')},{label:'TÜR',get:r=>r.kind},{label:'DURUM',html:r=>'<span class="hatBadge hb'+STATUS.indexOf(r.status)+'">'+r.status+'</span>'},{label:'ÖNCELİK',get:r=>r.priority},{label:'LOKASYON KODU',get:r=>r.location},{label:'TREYLER PLAKA',get:r=>r.trailer},{label:'HAREKET GÜMRÜĞÜ',get:r=>r.office},{label:'HAZIR BİLDİRİM TARİHİ',get:r=>r.readyAt},{label:'STATÜ UYGUN TARİHİ',get:r=>r.approvedAt},{label:'IGHB NO',get:r=>r.ighb}],
   fields:[{name:'mrn',label:'MRN',required:true,full:true},{name:'kind',label:'Bildirim türü',options:KINDS},{name:'status',label:'Durum',options:STATUS},{name:'location',label:'Lokasyon kodu'},{name:'trailer',label:'Treyler plakası'},{name:'vehicle',label:'Çekici plakası'},{name:'priority',label:'Öncelik',options:PRIORITY},{name:'office',label:'Hareket gümrüğü',full:true},{name:'readyAt',label:'Hazır bildirim tarihi',placeholder:'14.10.2026 19:49'},{name:'approvedAt',label:'Statü uygun tarihi'},{name:'guid',label:'GUID'},{name:'ighb',label:'IGHB no'},{name:'message',label:'Durum mesajı',type:'textarea',full:true}],
   filters:[{key:'kind',label:'Tür',get:r=>r.kind},{key:'status',label:'Durum',get:r=>r.status}],
-  rows:()=>list,rowId:r=>r.id,match:(r,q)=>[r.mrn,r.trailer,r.vehicle,r.ighb,r.guid,r.office,r.declarationRef].some(v=>normalizeSearch(v).includes(q)),
+  rows:()=>{try{summary()}catch{}return list},rowId:r=>r.id,match:(r,q)=>[r.mrn,r.trailer,r.vehicle,r.ighb,r.guid,r.office,r.declarationRef].some(v=>normalizeSearch(v).includes(q)),
   async onSave(d,old){const r=norm({...(old||{}),...d});if(!r.mrn)throw Error('MRN gerekli.');if(r.location)try{localStorage.setItem('t1-hat-location',r.location)}catch{}list=old?list.map(x=>x.id===old.id?r:x):[...list,r];save()},
   onRemove:async r=>{list=list.filter(x=>x.id!==r.id);save()},
   async onImport(f){const v=JSON.parse(await f.text()),a=Array.isArray(v)?v:v.hat||[];const n=importData(a);return n+' hat bildirimi eklendi.'},
   exportFile:'T1_Hat_Bildirimleri.json',exportData:()=>JSON.stringify({format:'t1-hat',hat:list},null,2),
-  extraActions:[{label:'⧉',title:'MRN, lokasyon, plaka ve gümrüğü kopyala',fn:copy}]});
+  extraActions:[{label:'➜',title:'Sonraki duruma geçir (Hazırlandı → Gönderildi → İşlemde → Statü Uygun)',fn:r=>{const i=STATUS.indexOf(r.status);if(i<0||i>=3){toast(r.status==='Hata Aldı'?'Hata alan kayıt: önce düzenleyip durumunu seç.':'Bu kayıt zaten son durumda.');return}r.status=STATUS[i+1];save();page.refresh(true);toast(r.mrn+' → '+r.status)}},{label:'⧉',title:'MRN, lokasyon, plaka ve gümrüğü kopyala',fn:copy}]});
+
+ function summary(){const v=document.getElementById('hatView');if(!v)return;let el=v.querySelector('.hatSummary');if(!el){el=document.createElement('div');el.className='hatSummary';const ph=v.querySelector('.pagehead');if(!ph)return;ph.after(el)}
+  const c=Object.fromEntries(STATUS.map(s=>[s,0]));for(const r of list)c[r.status]++;const wait=c['Hazırlandı']+c['Gönderildi']+c['İşlemde'];
+  el.innerHTML='<div class="hatToday"><strong>'+wait+'</strong><span>BUGÜN BEKLEYEN</span></div>'+STATUS.map((s,i)=>'<div class="hatChip hb'+i+'"><strong>'+c[s]+'</strong><span>'+s.toLocaleUpperCase('tr')+'</span></div>').join('')}
  function importData(a){if(!Array.isArray(a))return 0;const seen=new Set(list.map(r=>r.kind+'|'+r.mrn));let n=0;for(const x of a){const r=norm(x);if(!r.mrn||seen.has(r.kind+'|'+r.mrn))continue;seen.add(r.kind+'|'+r.mrn);list.push(r);n++}save();return n}
  // Kalem satırından hazır kayıt: aynı MRN için tekrar açmaz
  function createFromGood({mrn,trailer,vehicle,office,declarationRef,location,kind=KINDS[0]}){

diff --git a/polish.css b/polish.css
@@ -85,3 +85,39 @@ footer{color:#8a97ad!important;border-top-color:var(--pc-line)!important}.bottom
 .brand span:not(.brandmark){color:#fff}
 .sidebar .brand small{color:#7f93bd!important}
 .steppanel{background:transparent!important;border:0!important;box-shadow:none!important;border-radius:0!important}
+
+/* ===== Hepsi kalın yazı ===== */
+body,body *{font-weight:600!important}
+h1,h2,h3,h4,strong,b,th,.eyebrow,.primary,.tag,.aeoBadge,.glxNo,.kpis strong{font-weight:800!important}
+/* ===== Kart şeridi kaldırıldı ===== */
+.kpis{display:none!important}
+/* ===== Bugün şeridi ===== */
+.todayStrip{display:flex;flex-wrap:wrap;gap:10px;margin:0 0 14px}
+.todayStrip[hidden]{display:none}
+.tChip{display:inline-flex;align-items:center;gap:8px;padding:10px 16px;border-radius:999px!important;border:1px solid #d7dfee!important;background:#fff!important;color:#223a7a!important;font-size:12.5px;letter-spacing:.3px;box-shadow:0 1px 3px #0f1b3310}
+.tChip b{font-size:15px}.tChip.warn{background:#fff7e6!important;border-color:#fbd38d!important;color:#b45309!important}.tChip.warn.on{background:#fde7bd!important}
+.tChip.bad{background:#fff1f1!important;border-color:#fecaca!important;color:#b91c1c!important}
+/* ===== Liste: tek satır, blok satırlar ===== */
+.tablewrap{background:#f3f6fb!important;padding:0 14px 6px}
+#declarationsTable{border-collapse:separate!important;border-spacing:0 10px!important;table-layout:fixed;width:100%}
+#declarationsTable thead th{background:transparent!important;border:0!important;padding:10px 12px 2px!important;font-size:11px!important}
+#declarationsTable tbody td{background:#fff!important;border-top:1px solid #dbe3f2!important;border-bottom:1px solid #dbe3f2!important;padding:12px 12px!important;white-space:nowrap!important;overflow:hidden;text-overflow:ellipsis;vertical-align:middle}
+#declarationsTable tbody td:first-child{border-left:4px solid #2f5bea!important;border-top-left-radius:12px;border-bottom-left-radius:12px}
+#declarationsTable tbody td:last-child{border-right:1px solid #dbe3f2!important;border-top-right-radius:12px;border-bottom-right-radius:12px}
+#declarationsTable tbody tr:hover td{background:#f5f8ff!important;border-top-color:#b7c9f2!important;border-bottom-color:#b7c9f2!important}
+#declarationsTable td small,#declarationsTable .cellMain{display:inline!important;font-size:13px!important;margin:0}
+#declarationsTable td small{margin-left:8px!important;color:#7a88a3!important}
+#declarationsTable .stCell{white-space:nowrap!important}
+#declarationsTable .stCell .tag,#declarationsTable .stCell .aeoBadge,#declarationsTable .stCell .dueBadge{display:inline-flex!important;vertical-align:middle;margin-right:4px}
+#declarationsTable .rowactions{display:flex!important;flex-wrap:nowrap!important;gap:4px!important;max-width:none!important}
+#declarationsTable .rowactions button{padding:5px 7px!important;font-size:12px!important}
+.dueBadge{padding:4px 9px;border-radius:999px;background:#fef3c7;color:#b45309;font-size:11px;white-space:nowrap}.dueBadge.late{background:#fee2e2;color:#b91c1c}
+/* ===== Hat bildirimleri: durum özeti ve rozetler ===== */
+.hatSummary{display:flex;flex-wrap:wrap;gap:10px;margin:0 0 14px}
+.hatToday,.hatChip{display:flex;align-items:baseline;gap:10px;padding:12px 18px;border-radius:12px;background:#fff;border:1px solid #dbe3f2;box-shadow:0 1px 3px #0f1b3310}
+.hatToday{background:#2f5bea;border-color:#2f5bea;color:#fff}.hatToday strong{font-size:22px}.hatToday span,.hatChip span{font-size:11px;letter-spacing:.6px}
+.hatChip strong{font-size:18px}.hatChip.hb0{border-left:4px solid #94a3b8}.hatChip.hb1{border-left:4px solid #2f5bea}.hatChip.hb2{border-left:4px solid #f59e0b}.hatChip.hb3{border-left:4px solid #16a34a}.hatChip.hb4{border-left:4px solid #dc2626}
+.hatBadge{display:inline-block;padding:5px 12px;border-radius:999px;font-size:12px;white-space:nowrap}
+.hatBadge.hb0{background:#eef2f7;color:#475569}.hatBadge.hb1{background:#e0ebff;color:#1f43c0}.hatBadge.hb2{background:#fef3c7;color:#b45309}.hatBadge.hb3{background:#dcfce7;color:#15803d}.hatBadge.hb4{background:#fee2e2;color:#b91c1c}
+#declarationsTable td:nth-child(1) small,#declarationsTable td:nth-child(2) small{display:none!important}
+#declarationsTable .stCell .tag{padding:4px 10px!important;font-size:12px}#declarationsTable .stCell .aeoBadge{padding:4px 9px;font-size:11px}
